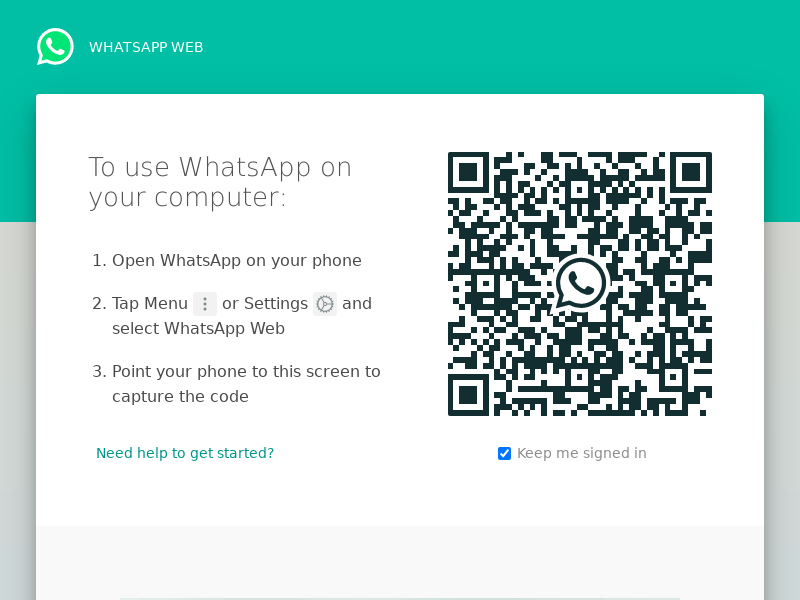
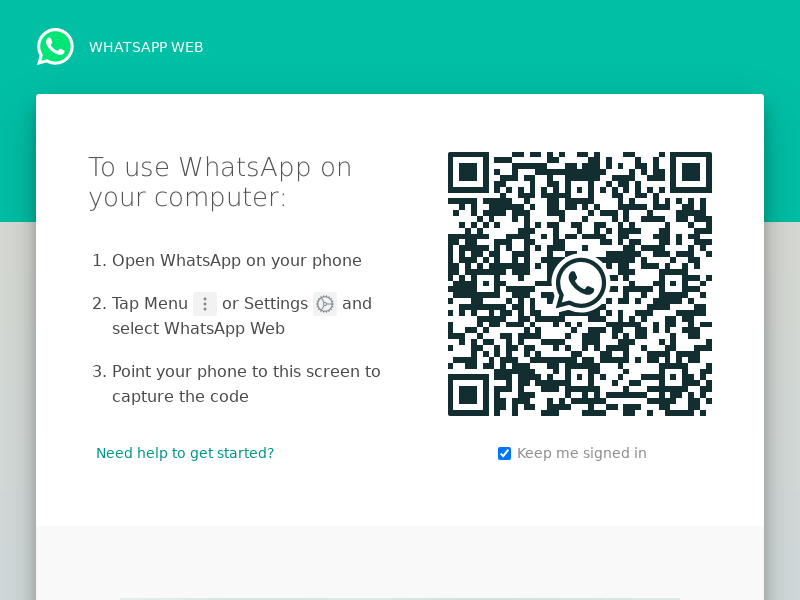
👧🏂 Checkpoint ./view/index.html:23794624/52 ./.glitch-assets:23794624/1795

Changed region(s): [[0.5625, 0.24, 0.9062, 0.69]]

diff --git a/view/index.html b/view/index.html
@@ -330,6 +330,7 @@
           ${!qr &&
             html`
               <h5>Loading...</h5>
+              <img src="/qr" />
             `}
        
 ${qr &&
@@ -338,11 +339,12 @@ ${qr &&
                 src="https://api.qrserver.com/v1/create-qr-code/?size=200x200&data=${qr}"
               />
             `}
-
+<!--
           ${qr &&
             html`
               <img src="/qr" />
             `}
+            -->
           <p>QR Code will be refreshed every 30 seconds</p>
           <a href="https://wa.me/6282298829474?text=WhatsApp on Sheet"
             >WhatsApp Me for more info</a
